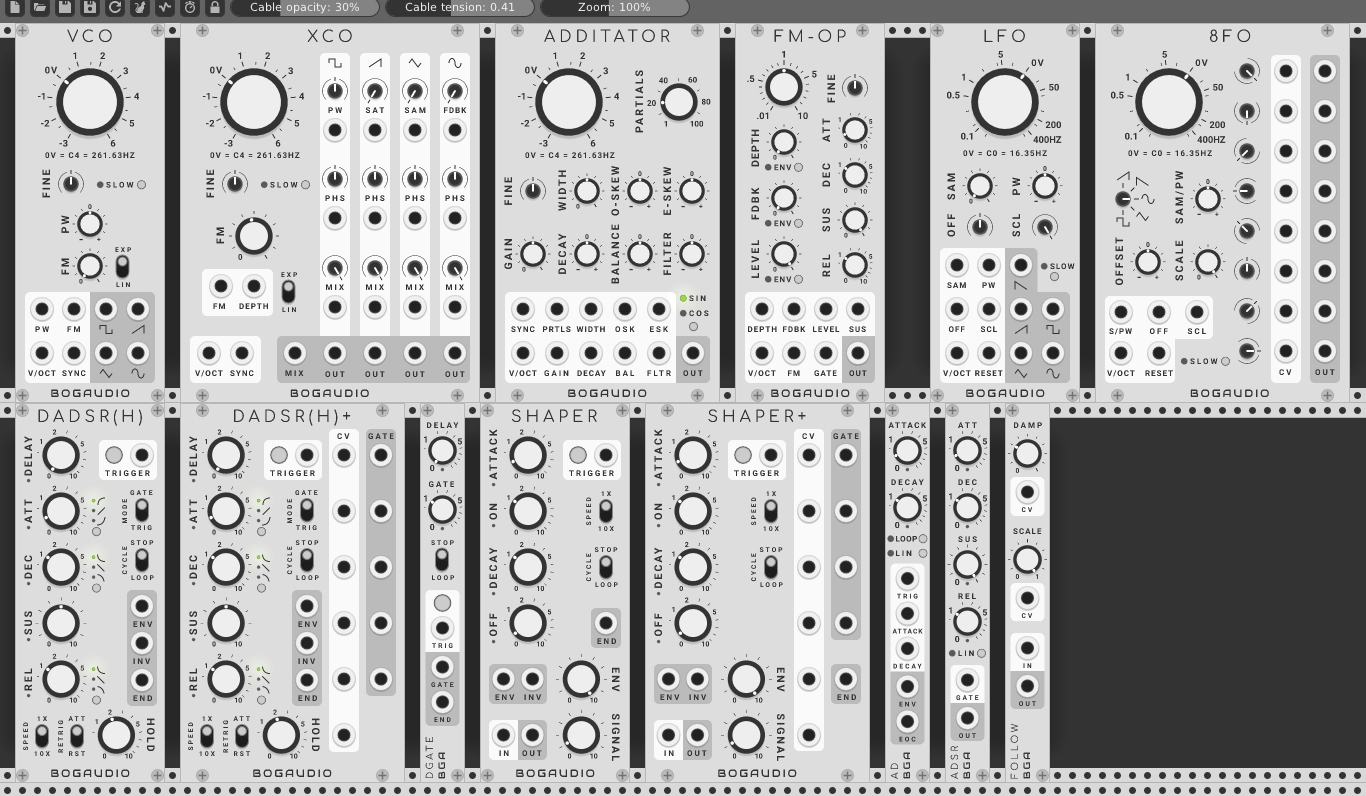
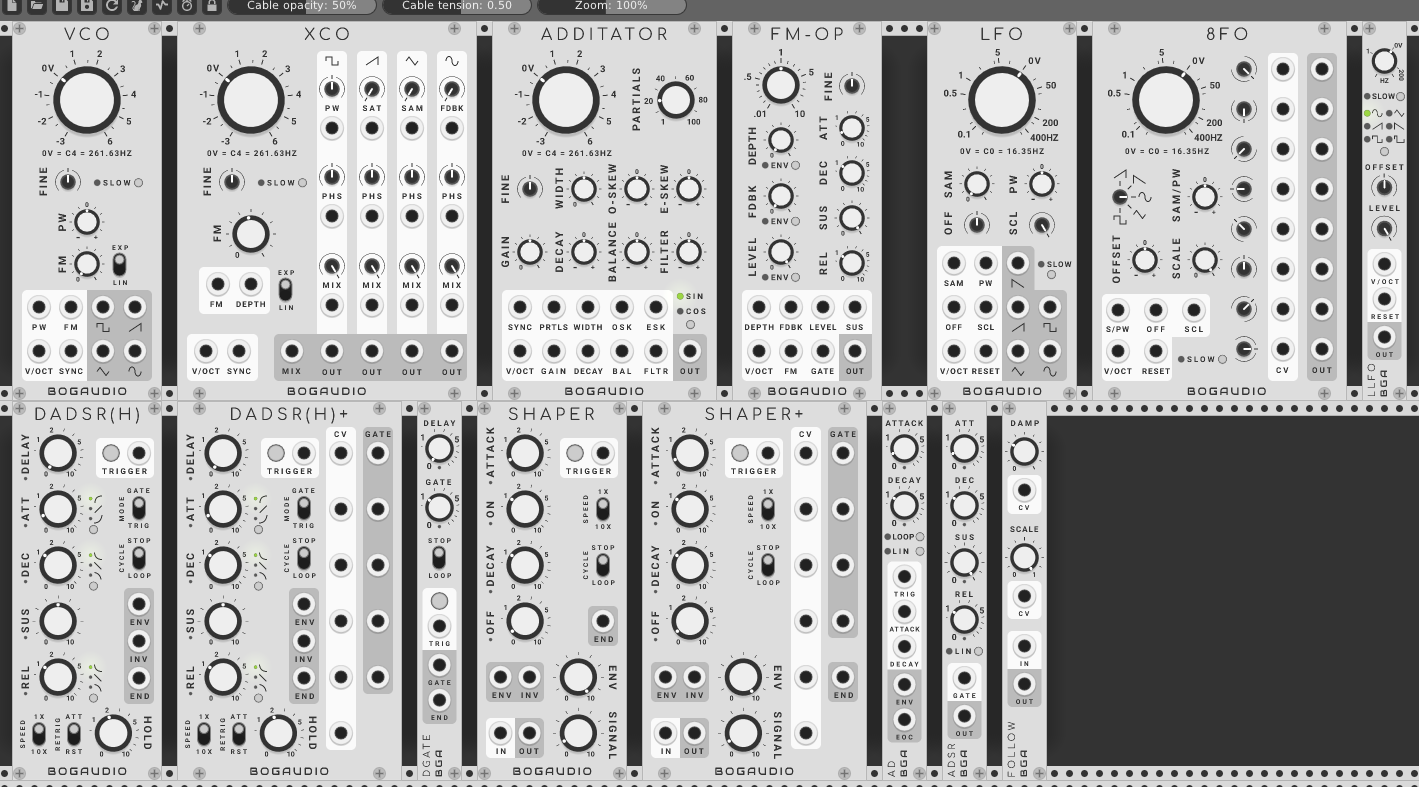
Update README and screens; bump version.

diff --git a/README.md b/README.md
@@ -110,6 +110,10 @@ LFO tracks pitch CVs at the V/OCT input four octaves lower than a normal oscilla
 
 An LFO with outputs at 8 different phases.  The phases may be set by knobs and CVs; by default they are 0, 45, 90, etc, degrees from the fundamental.  Otherwise, functionality is the same as with LFO, excepting that the wave shape is selectable, and all outputs are of the same (phase-shifted) wave.
 
+#### LLFO
+
+A 3HP LFO, with selectable waveform.  The features are a subset of LFO, with the addition of a sixth 10%-pulse waveform (since there is no pulse width control).
+
 
 ### <a name="envelopes"></a> Envelopes and Envelope Utilities
 
@@ -319,6 +323,7 @@ Features:
   - Quality setting: changes the FFT window size.  Higher settings yield finer frequency resolution, at a higher CPU cost.  The levels and sizes are: GOOD (1024 samples), HIGH (2048 samples) and ULTRA (4096 samples).  If Rack's sample rate is 96khz or higher, the sizes are doubled.
   - Window setting: sets the window function applied to the input to the FFT.  The options are Kaiser, Hamming and none/square.  The default, Kaiser, is probably best for most purposes.
   - Each channel has a THRU output, which passes the corresponding input through unchanged.
+  - On the context (right-click) menu, the display vertical (amplitude) range can be set to extend down to -120dB (the default is -60dB).
 
 #### ANALYZER-XL
 
@@ -406,7 +411,9 @@ By default, the output is capped at +/-12 volts (this is a standard in Rack).  A
 
 #### S&H
 
-A dual sample-and-hold.  Sampling may be triggered by CV or button press.  If nothing is connected to an IN port, sampling for that channel is from an internal white noise source (range 0-10).
+A dual sample-and-hold and trigger-and-hold.  Sampling may be triggered by CV (on the rising edge of a trigger or gate) or button press.  If nothing is connected to an IN port, sampling for that channel is from an internal white noise source (range 0-10V).
+
+Each channel can be toggled into track-and-hold mode.  In this mode, when the input at GATE is high, or the button is held, the input is copied to the output.  When the gate goes low, the input is sampled and held until the next gate.
 
 #### SLEW
 
